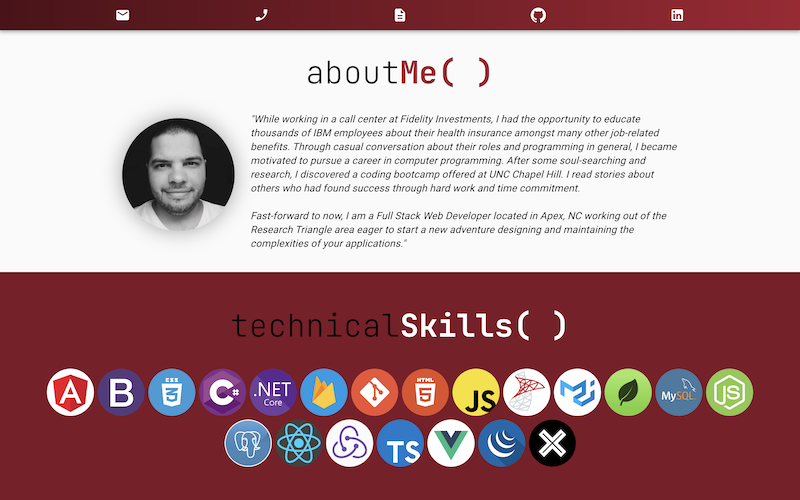
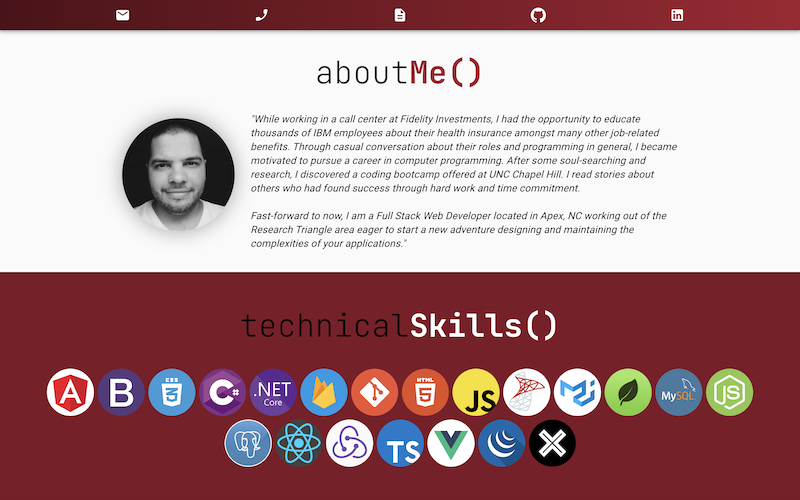
Fixed HeaderTitle

Changed region(s): [[0.2812, 0.6, 0.7188, 0.69], [0.375, 0.12, 0.625, 0.18]]

diff --git a/src/containers/HeaderTitle/HeaderTitle.tsx b/src/containers/HeaderTitle/HeaderTitle.tsx
@@ -14,7 +14,7 @@ export const HeaderTitle: React.FC<Props> = ({ titleOne, titleTwo, colorTwo }) =
         spanStyle: {
             one: {
                 fontFamily: 'JetBrains Mono, monospace',
-                fontSize: 'min(max(4vw, 25px), 50px)',
+                fontSize: 'min(max(4vw, 27px), 50px)',
                 fontWeight: 200
             },
             two: {
@@ -28,7 +28,7 @@ export const HeaderTitle: React.FC<Props> = ({ titleOne, titleTwo, colorTwo }) =
         <div style={styles().divStyle}>
             <span className="spanStyle" style={styles().spanStyle.one}>
                 <span>{titleOne}</span>
-                <span style={styles().spanStyle.two}>{titleTwo}( )</span>
+                <span style={styles().spanStyle.two}>{titleTwo}()</span>
             </span>
         </div>
     );
